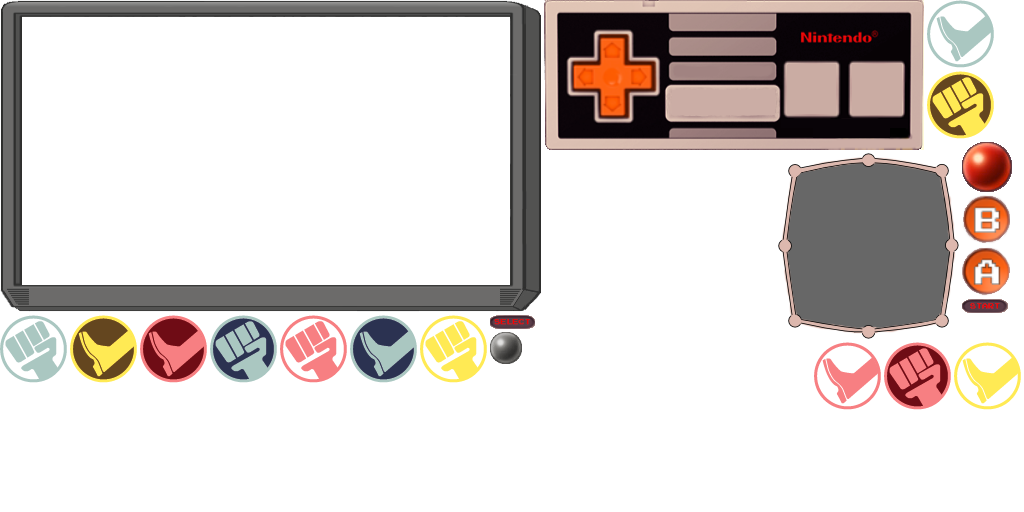
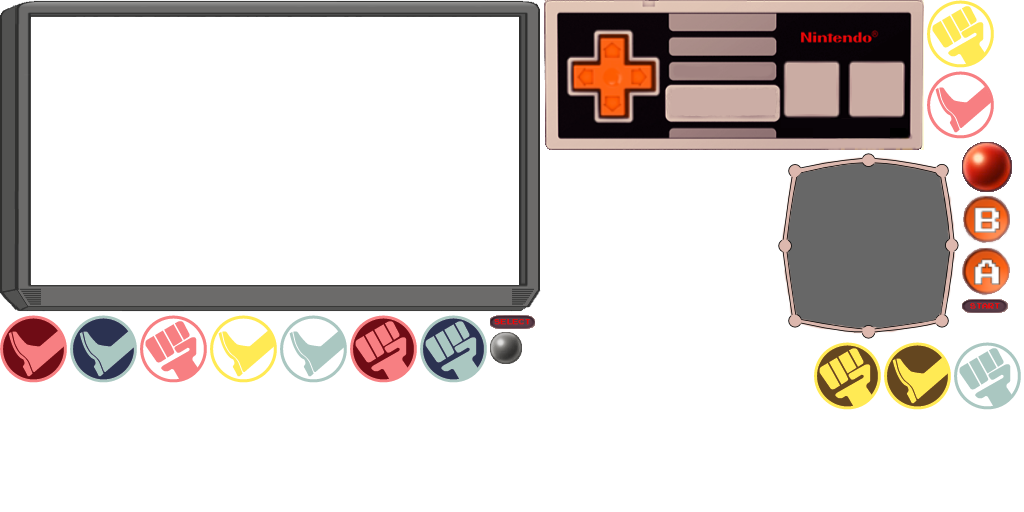
Monitor OBS cams working

diff --git a/meta/Source/Components/Monitor.cpp b/meta/Source/Components/Monitor.cpp
@@ -5,7 +5,7 @@
 
 #define MONITOR_WIDTH 488
 #define MONITOR_HEIGHT 268
-#define SCREEN_OFFSET_X 23
+#define SCREEN_OFFSET_X 33
 #define SCREEN_OFFSET_Y 27
 
 #define SHADOW_ALPHA 0.42f
@@ -13,8 +13,11 @@
 Monitor::Monitor(HyEntity2d *pParent /*= nullptr*/) :
 	IComponent(COMPONENT_Brb, pParent),
 	m_CtrlPanel_CheckBox(HyPanelInit(32, 32, 2), HyNodePath("", "CtrlPanel")),
-	m_CtrlPanel_Brb(HyPanelInit(32, 32, 2), HyNodePath("", "CtrlPanel")),
 	m_CtrlPanel_LiveSplit(HyPanelInit(32, 32, 2), HyNodePath("", "CtrlPanel")),
+	m_iChannelIndex(MONITORCHANNEL_NoSignal),
+	m_fChannelShowTime(0.0f),
+	m_eMonitorState(MONITORSTATE_Idle),
+	m_fElapsedTime(0.0f),
 	m_Shadow("Monitor", "Frame", this),
 	m_ColorKeyBg(this),
 	m_Background(this),
@@ -58,25 +61,28 @@ Monitor::Monitor(HyEntity2d *pParent /*= nullptr*/) :
 			}
 		});
 
-	m_CtrlPanel_Brb.SetText("BRB");
-	m_CtrlPanel_Brb.SetCheckedChangedCallback(
-		[this](HyCheckBox *pCheckBox)
-		{
-			if(pCheckBox->IsChecked())
+	for(int iChannelIndex = 0; iChannelIndex < NUM_MONITORCHANNELS; ++iChannelIndex)
+	{
+		m_CtrlPanel_radChannel[iChannelIndex].Setup(HyPanelInit(24, 24, 2), HyNodePath("", "CtrlPanel"));
+		m_CtrlPanel_radChannel[iChannelIndex].SetTag(iChannelIndex);
+		m_CtrlPanel_radChannel[iChannelIndex].SetCheckedChangedCallback(
+			[this](HyRadioButton *pRadio)
 			{
-				m_Brb.SetVisible(true);
-				m_Brb.alpha.Set(0.0f);
-				m_Brb.alpha.Tween(1.0f, 1.0f);
+				SetChannel(pRadio->GetTag());
+			});
 
-				m_ElapsedTime.Reset();
-				m_ElapsedTime.Start();
-			}
-			else
-			{
-				m_Brb.alpha.Tween(0.0f, 1.0f, HyTween::Linear, 0.0f, [](IHyNode *pThis) { pThis->SetVisible(false); });
-				m_ElapsedTime.Pause();
-			}
-		});
+		m_BtnGrp.AddButton(m_CtrlPanel_radChannel[iChannelIndex]);
+	}
+	m_CtrlPanel_radChannel[MONITORCHANNEL_NoSignal].SetChecked(true);
+	m_CtrlPanel_radChannel[MONITORCHANNEL_NoSignal].SetText("Null");
+	m_CtrlPanel_radChannel[MONITORCHANNEL_ObsCams].SetText("Cams");
+	m_CtrlPanel_radChannel[MONITORCHANNEL_Brb].SetText("BRB");
+
+	m_ChannelText.Init("CRT", "Volume", this);
+	m_ChannelText.SetText("NULL");
+	m_ChannelText.pos.Set(SCREEN_OFFSET_X + 350, SCREEN_OFFSET_Y + 225);
+	m_ChannelText.scale.Set(0.5f, 0.5f);
+	m_ChannelText.SetVisible(false);
 
 	m_LiveSplitMask.UseWindowCoordinates();
 	m_LiveSplitMask.SetAsBox(MISC_WIDTH + DIVIDER_WIDTH, HyEngine::Window(0).GetHeight());
@@ -87,7 +93,7 @@ Monitor::Monitor(HyEntity2d *pParent /*= nullptr*/) :
 
 	m_Shadow.SetTint(HyColor::Black);
 	m_Shadow.alpha.Set(SHADOW_ALPHA);
-	m_Shadow.pos.Set(20.0f, -20.0f);
+	m_Shadow.pos.Set(12.0f, -20.0f);
 
 	m_ColorKeyBg.pos.Set(SCREEN_OFFSET_X, SCREEN_OFFSET_Y);
 	m_ColorKeyBg.SetAsBox(MONITOR_WIDTH, MONITOR_HEIGHT);
@@ -117,15 +123,12 @@ Monitor::Monitor(HyEntity2d *pParent /*= nullptr*/) :
 	ctrlPanel.InsertSpacer(HYSIZEPOLICY_Expanding, 0, hRow);
 	
 	HyLayoutHandle hRow2 = ctrlPanel.InsertLayout(HYORIENT_Horizontal);
-	ctrlPanel.InsertWidget(m_CtrlPanel_Brb, hRow2);
+	for(int i = 0; i < NUM_MONITORCHANNELS; ++i)
+		ctrlPanel.InsertWidget(m_CtrlPanel_radChannel[i], hRow2);
 }
 
 /*virtual*/ void Monitor::Show(float fDuration) /*override*/
 {
-	
-
-	//IComponent::Show(fDuration);
-
 	SetVisible(true);
 	scale.Set(0.5f, 0.5f);
 	scale.Tween(1.0f, 1.0f, fDuration * 2.0f, HyTween::QuadIn);
@@ -164,4 +167,103 @@ bool Monitor::IsBrb() const
 {
 	if(m_ElapsedTime.IsRunning())
 		m_ElapsedTimeText.SetText(m_ElapsedTime.ToString());
+
+	if(m_fChannelShowTime > 0.0f)
+	{
+		m_fChannelShowTime -= HyEngine::DeltaTime();
+		if(m_fChannelShowTime <= 0.0f)
+		{
+			m_fChannelShowTime = 0.0f;
+			m_ChannelText.SetVisible(false);
+		}
+	}
+
+	switch(m_eMonitorState)
+	{
+	case MONITORSTATE_Idle:
+		break;
+
+	case MONITORSTATE_PreChangeChannel:
+		switch(m_iChannelIndex)
+		{
+		case MONITORCHANNEL_NoSignal:
+			m_Brb.alpha.Tween(0.0f, 1.0f, HyTween::Linear, 0.0f, [](IHyNode *pThis) { pThis->SetVisible(false); });
+			m_ElapsedTimeText.alpha.Tween(0.0f, 1.0f, HyTween::Linear, 0.0f, [](IHyNode *pThis) { pThis->SetVisible(false); });
+			m_ElapsedTime.Pause();
+			break;
+		case MONITORCHANNEL_ObsCams:
+			m_Brb.alpha.Tween(0.0f, 1.0f, HyTween::Linear, 0.0f, [](IHyNode *pThis) { pThis->SetVisible(false); });
+			m_ElapsedTimeText.alpha.Tween(0.0f, 1.0f, HyTween::Linear, 0.0f, [](IHyNode *pThis) { pThis->SetVisible(false); });
+			m_ElapsedTime.Pause();
+			break;
+		case MONITORCHANNEL_Brb:
+			break;
+
+		default:
+			HyLogError("Bad monitor channel index");
+			break;
+		}
+
+		m_eMonitorState = MONITORSTATE_ChangingChannel;
+		break;
+
+	case MONITORSTATE_ChangingChannel:
+		switch(m_iChannelIndex)
+		{
+		case MONITORCHANNEL_NoSignal:
+			m_ChannelText.SetText("NULL");
+			m_Background.SetVisible(true);
+			break;
+		case MONITORCHANNEL_ObsCams:
+			m_ChannelText.SetText("CAMS");
+			m_Background.SetVisible(false);
+			break;
+		case MONITORCHANNEL_Brb:
+			m_Background.SetVisible(true);
+			m_Brb.SetVisible(true);
+			m_Brb.alpha.Set(0.0f);
+			m_Brb.alpha.Tween(1.0f, 1.0f);
+
+			m_ElapsedTimeText.SetVisible(true);
+			m_ElapsedTimeText.alpha.Set(0.0f);
+			m_ElapsedTimeText.alpha.Tween(1.0f, 1.0f);
+
+			m_ElapsedTime.Reset();
+			m_ElapsedTime.Start();
+
+			m_ChannelText.SetText("BRB");
+			break;
+
+		default:
+			HyLogError("Bad monitor channel index");
+			break;
+		}
+
+		// Channel actually changing now
+		m_ChannelText.SetVisible(true);
+		m_fChannelShowTime = 2.0f;
+
+		m_fElapsedTime = 0.0f;
+		m_eMonitorState = MONITORSTATE_PostChangeChannel;
+		break;
+
+	case MONITORSTATE_PostChangeChannel:
+		m_fElapsedTime += HyEngine::DeltaTime();
+		if(m_fElapsedTime >= 0.5f)
+		{
+			m_eMonitorState = MONITORSTATE_Idle;
+		}
+		break;
+	}
+}
+
+void Monitor::SetChannel(int iChannelIndex)
+{
+	iChannelIndex %= NUM_MONITORCHANNELS;
+	iChannelIndex = fabs(iChannelIndex);
+	if(m_iChannelIndex == iChannelIndex)
+		return;
+
+	m_iChannelIndex = iChannelIndex;
+	m_eMonitorState = MONITORSTATE_PreChangeChannel;
 }

diff --git a/meta/Source/Components/Monitor.h b/meta/Source/Components/Monitor.h
@@ -8,7 +8,28 @@ class Monitor : public IComponent
 {
 	HyCheckBox			m_CtrlPanel_CheckBox;
 	HyCheckBox			m_CtrlPanel_LiveSplit;
-	HyCheckBox			m_CtrlPanel_Brb;
+
+	enum MonitorChannel
+	{
+		MONITORCHANNEL_NoSignal = 0,
+		MONITORCHANNEL_ObsCams,
+		MONITORCHANNEL_Brb,
+
+		NUM_MONITORCHANNELS
+	};
+	HyRadioButton		m_CtrlPanel_radChannel[NUM_MONITORCHANNELS];
+	HyButtonGroup		m_BtnGrp;
+	int32				m_iChannelIndex;
+	float				m_fChannelShowTime;
+	enum MonitorState
+	{
+		MONITORSTATE_Idle,
+		MONITORSTATE_PreChangeChannel,
+		MONITORSTATE_ChangingChannel,
+		MONITORSTATE_PostChangeChannel,
+	};
+	MonitorState		m_eMonitorState;
+	float				m_fElapsedTime;
 
 	HyPrimitive2d		m_LiveSplitMask;
 	HySprite2d			m_Shadow;
@@ -19,6 +40,8 @@ class Monitor : public IComponent
 
 	HyStopwatch			m_ElapsedTime;
 	HyText2d			m_ElapsedTimeText;
+	
+	HyText2d			m_ChannelText;
 
 public:
 	Monitor(HyEntity2d *pParent = nullptr);
@@ -34,6 +57,8 @@ public:
 
 protected:
 	virtual void OnUpdate() override;
+
+	void SetChannel(int iChannelIndex);
 };
 
 #endif // Monitor_h__

diff --git a/meta/Source/Melody.cpp b/meta/Source/Melody.cpp
@@ -66,7 +66,7 @@ Melody::Melody(HarmonyInit &initStruct) :
 	m_Crt.PopulateCtrlPanel(m_CtrlPanel);
 
 	m_Monitor.UseWindowCoordinates();
-	m_Monitor.SetDisplayOrder(DISPLAYORDER_MessageCycle);
+	m_Monitor.SetDisplayOrder(DISPLAYORDER_Monitor);
 	m_Monitor.Load();
 	m_Monitor.SetVisible(false);
 	m_Monitor.pos.Set(-MISC_WIDTH - 100, HyEngine::Window(0).GetHeight() - MISC_HEIGHT);

diff --git a/meta/Source/pch.h b/meta/Source/pch.h
@@ -4,7 +4,8 @@
 #include "HyEngine.h"
 
 #define DISPLAYORDER_DEBUG			99999
-#define DISPLAYORDER_MessageCycle	9999
+#define DISPLAYORDER_MessageCycle	99999
+#define DISPLAYORDER_Monitor		9999
 #define DISPLAYORDER_LiveSplitMask	999
 #define DISPLAYORDER_CrtVolume		99
 #define DISPLAYORDER_Buttons		99
